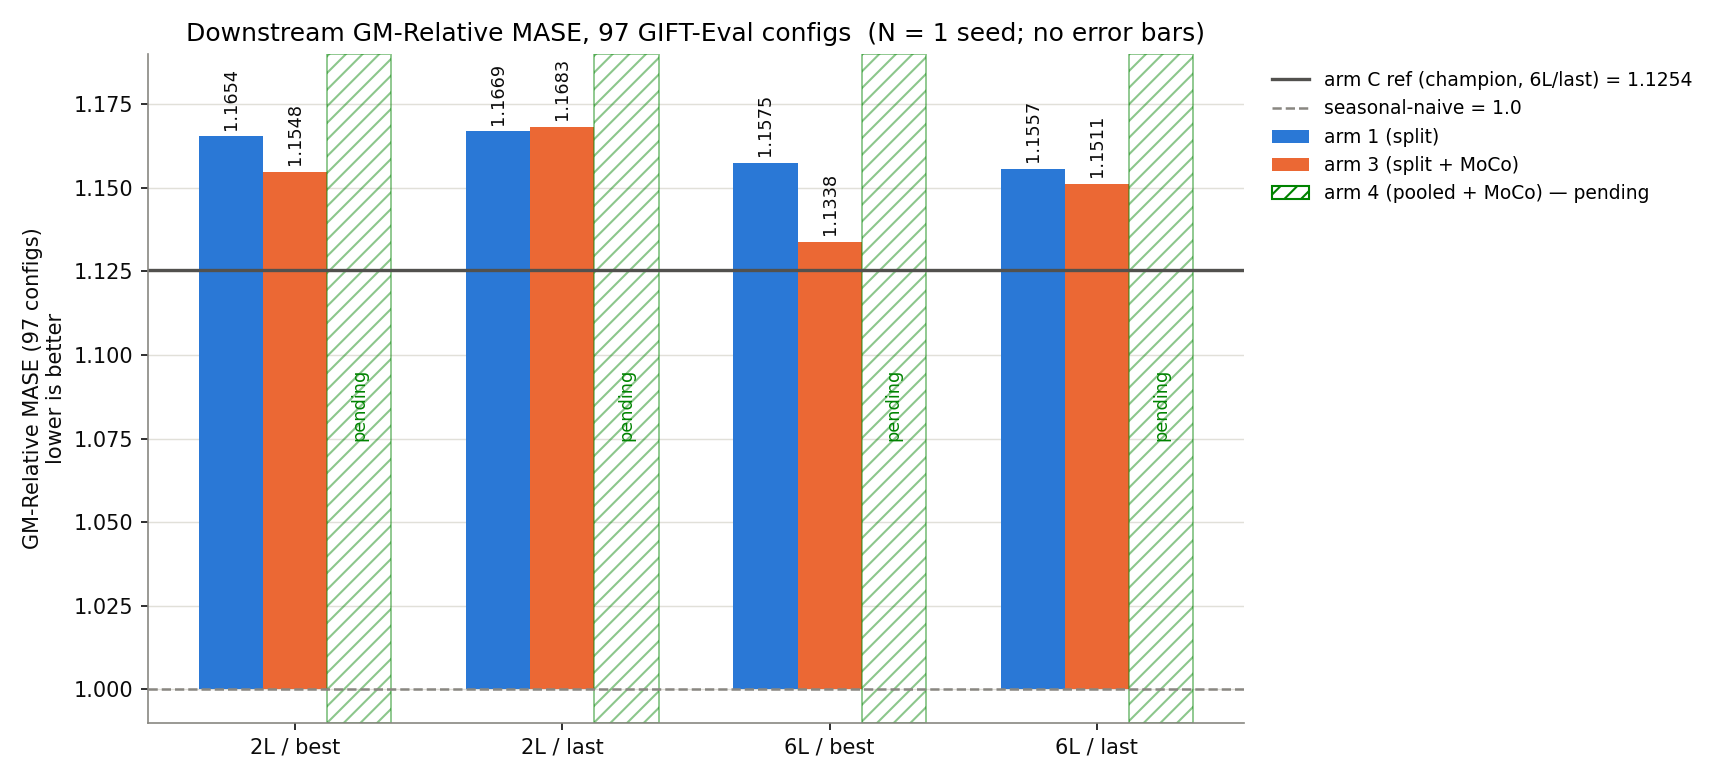
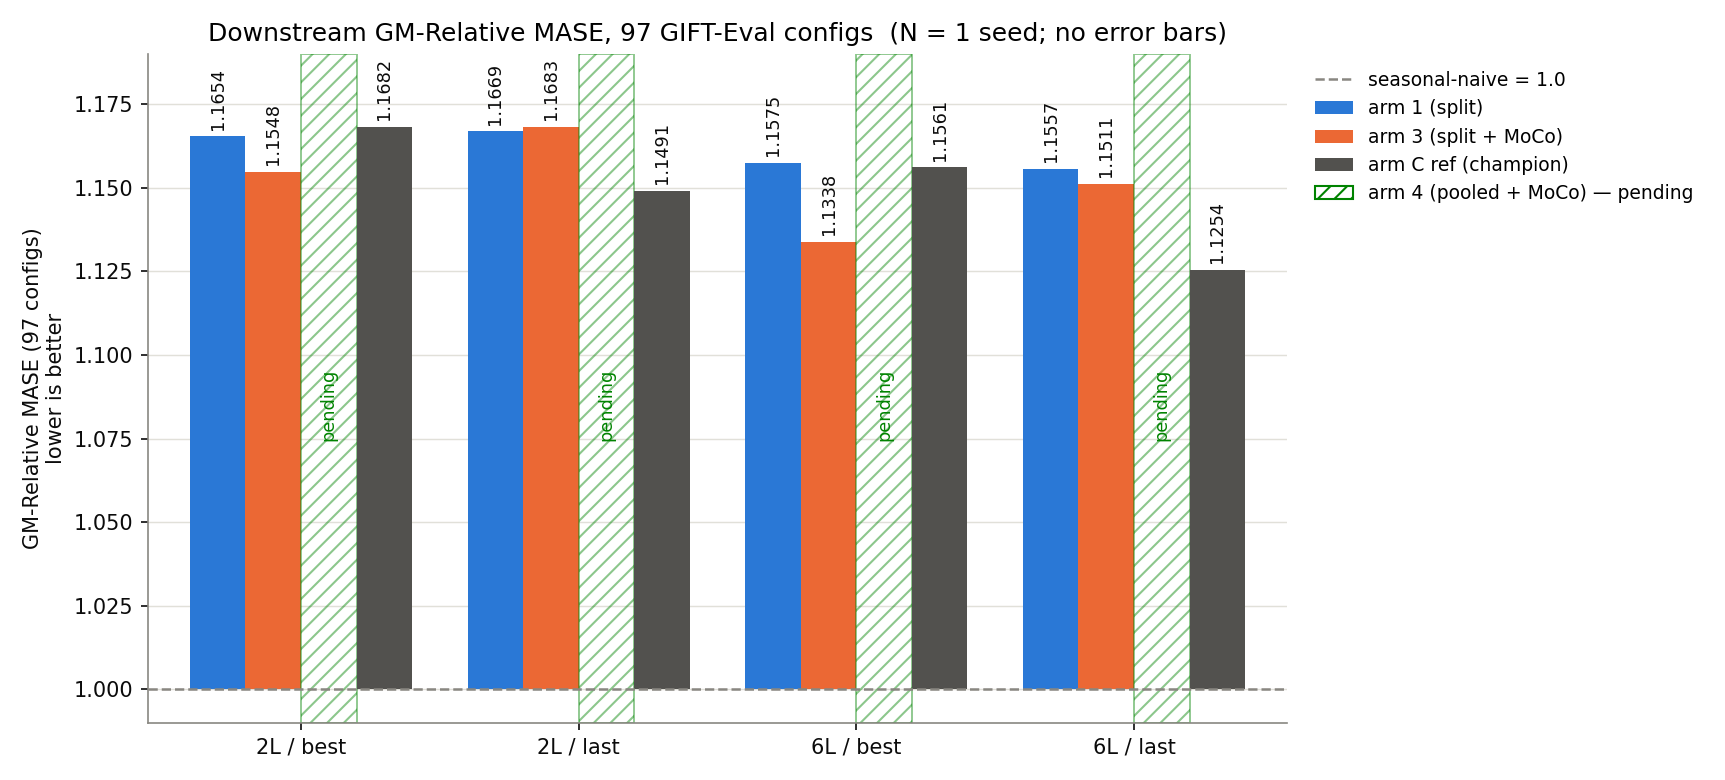
report(374): address ReportReviewer pass — matched champion cells
Findings fixed:
- Title shortened to <30 words; dropped the arm-4 gradient-share
  clause.
- Answer + Downstream table now show all four champion cells
  (2L/best 1.1682, 2L/last 1.1491, 6L/best 1.1561, 6L/last 1.1254)
  from experiments/2026-06-28_sigreg_lambda_tau_cross/results/
  gm_table.csv, not just 6L/last. Bold on the winner at each cell.
- Headline plot draws matched-cell champion bars instead of a single
  horizontal reference line.
- Caveat range recomputed on matched cells: −1.9 % (arm 3, 6L/best)
  to +2.7 % (arm 1, 6L/last).
- "changes by at most 0.10 nats" replaced with the actual endpoint
  differences (0.034 / 0.063 / 0.097) and max−min over the window
  (0.138 / 0.103 / 0.310).
- Gradient share plot uses arm 1's `_FINAL.pth` (measurement appended
  to the CSV; 12 new rows) and the caption now says "at each arm's
  step-12,500 backbone snapshot".
- Downstream-score restatement removed from the Gradient share
  section.
- Terminology standardised: "families" everywhere for tensor groupings.

diff --git a/reports/2026-07-10_split_pred_rep/plots/_make_plots.py b/reports/2026-07-10_split_pred_rep/plots/_make_plots.py
@@ -53,19 +53,20 @@ def read_aggregate(arm: str, head: str, ckpt: str) -> float:
     return float(m.group(1))
 
 
-def champion_ref() -> float:
+def champion_cells() -> dict:
     gm = pd.read_csv(SIGREG / "results" / "gm_table.csv")
-    row = gm[(gm["arm"] == "cross_C") & (gm["head"] == "6L") & (gm["ckpt"] == "last")]
-    return float(row["gm"].iloc[0])
+    rows = gm[gm["arm"] == "cross_C"]
+    return {(r["head"], r["ckpt"]): float(r["gm"]) for _, r in rows.iterrows()}
 
 
 def headline() -> None:
-    champ = champion_ref()
+    champ = champion_cells()
     fig, ax = plt.subplots(figsize=(11.5, 5.2))
     x = np.arange(len(GROUPS))
-    width = 0.24
-    for off, arm, colour, label in [(-width, "arm1", C_ARM1, "arm 1 (split)"),
-                                    (0.0, "arm3", C_ARM3, "arm 3 (split + MoCo)")]:
+    width = 0.20
+    C_CHAMP = "#52514e"
+    for off, arm, colour, label in [(-1.5 * width, "arm1", C_ARM1, "arm 1 (split)"),
+                                    (-0.5 * width, "arm3", C_ARM3, "arm 3 (split + MoCo)")]:
         vals = [read_aggregate(arm, h, c) for h, c in GROUPS]
         bars = ax.bar(x + off, np.array(vals) - 1.0, width, bottom=1.0,
                       color=colour, label=label)
@@ -73,14 +74,18 @@ def headline() -> None:
             ax.text(b.get_x() + b.get_width() / 2, v + 0.002, f"{v:.4f}",
                     ha="center", va="bottom", rotation=90, fontsize=8.5, color=INK)
     for gx in x:  # arm 4 slots: results pending, full-height hatched placeholder
-        ax.bar(gx + width, 0.20, width, bottom=0.99, facecolor="none",
+        ax.bar(gx + 0.5 * width, 0.20, width, bottom=0.99, facecolor="none",
                edgecolor=C_ARM4, hatch="///", linewidth=0.9, alpha=0.45)
-        ax.text(gx + width, 1.085, "pending", ha="center", va="center",
+        ax.text(gx + 0.5 * width, 1.085, "pending", ha="center", va="center",
                 rotation=90, fontsize=8.5, color=C_ARM4)
+    champ_vals = [champ[g] for g in GROUPS]
+    bars = ax.bar(x + 1.5 * width, np.array(champ_vals) - 1.0, width, bottom=1.0,
+                  color=C_CHAMP, label="arm C ref (champion)")
+    for b, v in zip(bars, champ_vals):
+        ax.text(b.get_x() + b.get_width() / 2, v + 0.002, f"{v:.4f}",
+                ha="center", va="bottom", rotation=90, fontsize=8.5, color=INK)
     ax.bar(0, 0, facecolor="none", edgecolor=C_ARM4, hatch="///",
            label="arm 4 (pooled + MoCo) — pending")
-    ax.axhline(champ, color="#52514e", lw=1.6,
-               label=f"arm C ref (champion, 6L/last) = {champ:.4f}")
     ax.axhline(1.0, color=MUTED, lw=1.2, ls="--", label="seasonal-naive = 1.0")
     ax.set_xticks(x, [f"{h} / {c}" for h, c in GROUPS])
     ax.set_xlim(-0.55, 3.55)
@@ -98,7 +103,7 @@ def headline() -> None:
     plt.close(fig)
 
 
-FINAL_CKPT = {"arm1": "_12k.pth", "arm3": "_FINAL.pth", "arm4": "_FINAL.pth"}
+FINAL_CKPT = {"arm1": "_FINAL.pth", "arm3": "_FINAL.pth", "arm4": "_FINAL.pth"}
 STACK_ORDER = ["log_neg_zy", "log_neg_cross_batch", "log_neg_hh_all", "log_neg_xs_allt"]
 TENSOR_LABEL = {
     "log_neg_zy": "log_neg_zy  (adjacent f↔f)",
@@ -153,7 +158,7 @@ def gradient_share_stack() -> None:
     fig.legend(handles, [TENSOR_LABEL[t] for t in STACK_ORDER],
                loc="upper center", ncol=2, fontsize=8.5, frameon=False,
                bbox_to_anchor=(0.5, 1.0))
-    fig.suptitle("Per-family denominator share at the final checkpoint  "
+    fig.suptitle("Per-family denominator share at each arm's step-12,500 backbone snapshot  "
                  "(τ = 0.10, fixed batches, B = 64)", y=0.88, fontsize=11)
     fig.tight_layout(rect=(0, 0, 1, 0.84))
     fig.savefig(HERE / "gradient_share_stack.png")

diff --git a/reports/2026-07-10_split_pred_rep/split_pred_rep.md b/reports/2026-07-10_split_pred_rep/split_pred_rep.md
@@ -1,4 +1,4 @@
-# Splitting the main loss into L_pred + L_rep does not improve GM-Relative MASE (+2.3–2.7 % vs the pooled champion at 6L/last, single seed); in the pooled arm (arm 4) the h-anchored families hold 0.86–0.88 of the denominator
+# Splitting the main loss into L_pred + L_rep does not improve GM-Relative MASE at 6L/last (+2.3–2.7 % vs the pooled champion, single seed)
 
 **Question.** The champion backbone of the [SIGReg (λ_e, λ_h) × EMA-τ
 sweep](../2026-06-28_sigreg_lambda_tau_cross/sigreg_lambda_tau_cross.md)
@@ -9,10 +9,12 @@ independent terms — `L_pred` (the positive against the f-anchored
 negatives) and `L_rep` (pooled logsumexp of the h-anchored negatives, no
 positive) — improve the full-97 GM-Relative MASE?
 
-**Answer.** No. The best split cell, 1.1338 (arm 3, 6L/best), does not reach
-the champion's 1.1254 (6L/last); at the champion's own cell (6L/last) the
-split arms sit at +2.7 % (arm 1) and +2.3 % (arm 3). All margins are
-single-seed (see Caveat).
+**Answer.** The result is cell-dependent. At 6L/last, arm 1 and arm 3 land
+at +2.7 % and +2.3 % vs the champion's 1.1254. At the "best-loss" cells
+(30k head-train on `best_loss.pth`, no 10k re-adapt), arm 3 beats the
+champion at 2L/best by 1.2 % (1.1548 vs 1.1682) and at 6L/best by 1.9 %
+(1.1338 vs 1.1561); at the "last" cells the champion wins in every row.
+All margins are single-seed (see Caveat).
 
 ![GM-Relative MASE bars for the split arms across the four (head, checkpoint) cells; arm 4 pending.](plots/headline_relmase.png)
 
@@ -27,50 +29,48 @@ Arm names follow the experiment's internal numbering.
 | arm 4 | `cosine_similarity_batch_full_hh_negs_xshh_allt` | on | pooled champion shape with teacher keys — downstream scores pending |
 | arm C ref | `cosine_similarity_batch_full_hh_negs_xshh_allt` | off | champion (λ_e = 1, λ_h = 1, τ = 0.90) of the earlier sweep, reused without retraining |
 
-Negative families (tensor names from the measurement CSV): the f-anchored
-pair is `log_neg_cross_batch` (cross-batch f_t ↔ h′_{t+1}) and `log_neg_zy`
-(adjacent f_{t+1} ↔ f_t); the h-anchored group is `log_neg_hh_all`
-(within-series all-time h ↔ h) and `log_neg_xs_allt` (cross-series all-time
-h ↔ h′), plus cross-channel `log_neg_xx`, which is empty at C = 1. f is the
-forecaster's predicted latent, h the encoder latent; primes mark other
-series of the batch. The pooled shape puts all families into one
-denominator; the split gives the f-anchored pair to `L_pred` and the
-h-anchored group to `L_rep`.
+Negative families (tensor names from the measurement CSV): the two
+f-anchored families are `log_neg_cross_batch` (cross-batch f_t ↔ h′_{t+1})
+and `log_neg_zy` (adjacent f_{t+1} ↔ f_t); the three h-anchored families are
+`log_neg_hh_all` (within-series all-time h ↔ h), `log_neg_xs_allt`
+(cross-series all-time h ↔ h′), and cross-channel `log_neg_xx`, which is
+empty at C = 1. f is the forecaster's predicted latent, h the encoder
+latent; primes mark other series of the batch. The pooled shape puts all
+families into one denominator; the split gives the two f-anchored families
+to `L_pred` and the three h-anchored families to `L_rep`.
 
 ## Downstream GM-Relative MASE
 
 | arm | 2L / best | 2L / last | 6L / best | 6L / last |
 | --- | --: | --: | --: | --: |
 | arm 1 (split) | 1.1654 | 1.1669 | 1.1575 | 1.1557 |
-| arm 3 (split + MoCo) | 1.1548 | 1.1683 | 1.1338 | 1.1511 |
+| arm 3 (split + MoCo) | **1.1548** | 1.1683 | **1.1338** | 1.1511 |
 | arm 4 (pooled + MoCo) | TODO | TODO | TODO | TODO |
-| arm C ref (champion) | — | — | — | **1.1254** |
+| arm C ref (champion) | 1.1682 | 1.1491 | 1.1561 | **1.1254** |
 
 *GM-Relative MASE: geometric mean, over GIFT-Eval's 97 evaluation configs,
 of model MASE divided by seasonal-naive MASE; 1.0 = seasonal-naive, lower is
 better. One cell = one (head depth, checkpoint) evaluation of an arm.
-Values are the "Aggregate GM-Relative MASE (97 configs)" line of each
-`summary.txt` under `experiments/2026-07-10_split_pred_rep/results/`; the
-champion value is the (cross_C, 6L, last) row of
+Split-arm values are the "Aggregate GM-Relative MASE (97 configs)" line
+of each `summary.txt` under `experiments/2026-07-10_split_pred_rep/results/`;
+champion values are the four `cross_C` (λ_e = 1, λ_h = 1, τ = 0.90) rows of
 `experiments/2026-06-28_sigreg_lambda_tau_cross/results/gm_table.csv`.
-Arm 4's head training and evaluation are still running; its cells will be
-filled in when they finish.*
+Boldface marks cells where the split arm beats the champion at the same
+head / checkpoint. Arm 4's head training and evaluation are still running;
+its cells will be filled in when they finish.*
 
 ## Gradient share
 
-![Stacked per-family shares of each term's denominator at the final checkpoint, mixed and periodic batches.](plots/gradient_share_stack.png)
+![Stacked per-family shares of each term's denominator at each arm's step-12,500 backbone snapshot, mixed and periodic batches.](plots/gradient_share_stack.png)
 
-In the split shape, `log_neg_cross_batch` holds 0.98–0.99 of the `L_pred`
-denominator on the periodic batch (0.86–0.90 on the mixed batch) across
-arm 1's four measured checkpoints, and 0.997 (periodic) / 0.937 (mixed) at
-arm 3's final checkpoint. In the pooled shape (arm 4, final checkpoint)
-the same tensor holds 0.003, and the h-anchored pair `log_neg_hh_all` +
-`log_neg_xs_allt` holds 0.877 (periodic) / 0.860 (mixed). The downstream
-scores of the split arms (table above) are worse than the pooled champion:
-arm 1 is +2.7 % at 6L/last.
+In the split shape at step 12,500, `log_neg_cross_batch` holds 0.99 of the
+`L_pred` denominator on the periodic batch (0.90 mixed) in arm 1, and 0.997
+(periodic) / 0.937 (mixed) in arm 3. In the pooled shape (arm 4) the same
+family holds 0.003 on both batches; the h-anchored families `log_neg_hh_all`
+and `log_neg_xs_allt` together hold 0.877 (periodic) / 0.860 (mixed).
 
 *Measurement (`scripts/gradient_share_measurement.py`; full table
-`results/gradient_share_measurement.csv`, 120 rows): each backbone
+`results/gradient_share_measurement.csv`, 132 rows): each backbone
 checkpoint runs in eval mode on two fixed batches (B = 64, T = 4096) —
 "mixed" = training HF stream, "periodic" = solar/H + electricity/H windows
 from GIFT-Eval — and each family's share of its own term's denominator is
@@ -84,8 +84,11 @@ all arms; the EMA teacher is not run at measurement time.*
 
 Each curve is the run's total training loss (contrastive + CPC + SIGReg
 terms) shifted by its own final level (mean over steps 12,401–12,500), so
-the three runs align at 0. Between steps 10,000 and 12,500 the smoothed
-level (101-step rolling mean) of each curve changes by at most 0.10 nats.
+the three runs align at 0. Between steps 10,000 and 12,500 the endpoint
+levels of the 101-step rolling means differ by 0.034 (arm 1), 0.063
+(arm 3) and 0.097 nats (arm 4); the max − min over the same window is
+0.138 / 0.103 / 0.310 nats (arm 4's spike at step ≈12,264 accounts for
+its larger max − min).
 
 ## Method
 
@@ -103,9 +106,10 @@ same seasonal-naive reference as the champion.
 
 ## Caveat — single seed
 
-Every evaluation is N = 1. The gaps to the champion (+0.7 % to +3.8 %
-across the eight scored cells) are of the same order as the spread between
-the best and last checkpoints of the same (arm, head) pair (last relative
-to best), which spans −0.2 % to +1.5 % here and −3.4 % to +4.0 % in the
-champion's own sweep. A multi-seed replicate would be needed to call any
-ordering real.
+Every evaluation is N = 1. Matched-cell gaps to the champion span
+−1.9 % (arm 3, 6L / best: 1.1338 vs 1.1561) to +2.7 % (arm 1, 6L / last:
+1.1557 vs 1.1254) across the eight scored cells; four of the eight are
+within ±0.6 %. The spread between best and last checkpoints of the same
+(arm, head) pair (last relative to best) spans −0.2 % to +1.5 % here and
+−3.4 % to +4.0 % in the champion's own sweep. A multi-seed replicate
+would be needed to call any ordering real.
